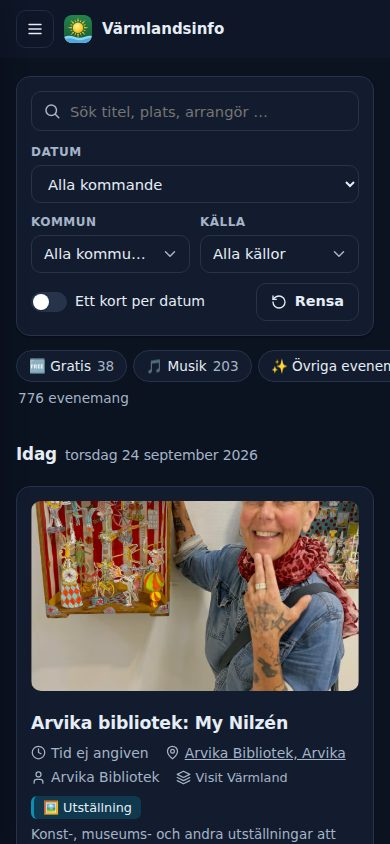
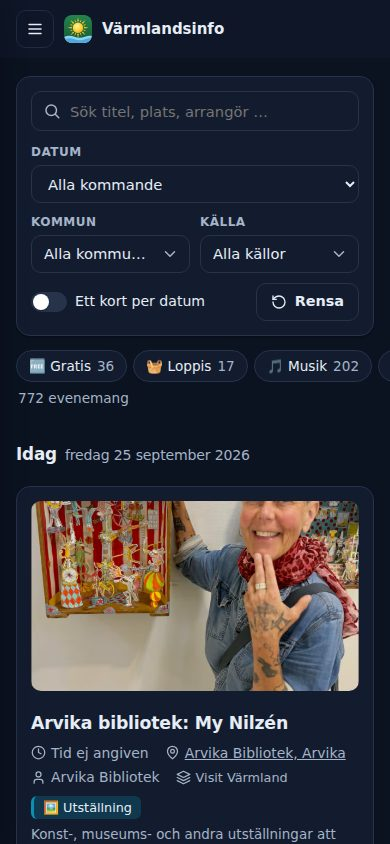
README: nya skärmdumpar för aktuell version (#47)
Skärmdumparna i docs/screenshots är tagna om med
tools/readme-screenshots.mjs, med riktig evenemangsdata och bilder.
De visar källan Loppisar, filtret Loppis och webbsökningen i Fråga AI.

Closes #47

Claude-Session: https://claude.ai/code/session_01C6uz5yNv61puchmzcW9gu3

diff --git a/README.md b/README.md
@@ -8,7 +8,7 @@ med en **AI-chatt** (via Ollama) där du kan ställa frågor om evenemangen.
 Evenemangen hämtas från flera källor och slås ihop. Samma evenemang från flera källor visas en gång,
 med länkar till alla källor.
 
-![Evenemangslistan med filter, kategorier och källornas status](docs/screenshots/lista.jpg)
+![Evenemangslistan med filter, kategorier (bland annat Gratis och Loppis) och källornas status](docs/screenshots/lista.jpg)
 
 | Kalendern (mörkt läge) | Fråga AI |
 |------------------------|----------|

diff --git a/CHANGELOG.md b/CHANGELOG.md
@@ -11,6 +11,9 @@ Formatet följer [Keep a Changelog](https://keepachangelog.com/sv/1.1.0/) och pr
   webbträffarna som extra underlag, och svaren visar dem under *Från webben*. Evenemangen i appen går före webben, och
   direktsökningar och sparade svar söker aldrig på webben (#46)
 
+### Dokumentation
+- Nya skärmdumpar i README för den aktuella versionen, med källan Loppisar, filtret Loppis och webbsökning (#47)
+
 ## [0.15.0] - 2026-09-25
 
 ### Ändrat
